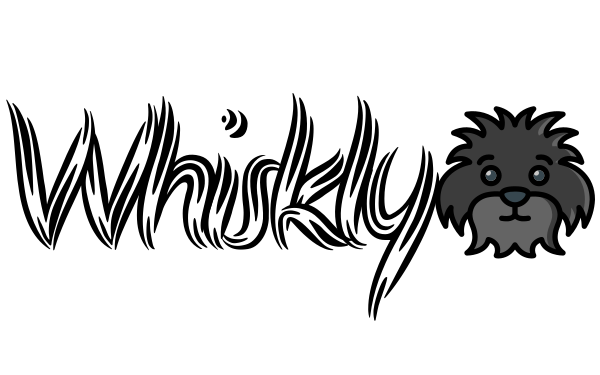
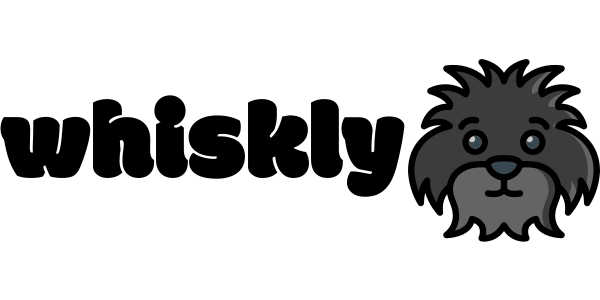
update landing graphic

Changed region(s): [[0.0, 0.18, 1.0, 0.87]]

diff --git a/src/components/Image/styles.js b/src/components/Image/styles.js
@@ -1,6 +1,7 @@
 import styled from 'styled-components';
 
 export const ImageContainer = styled.div`
+  outline: 1px solid purple;
   background-image: url(${({ image }) => image});
   background-position: center;
   background-size: contain;
@@ -14,6 +15,7 @@ export const ImageContainer = styled.div`
 `;
 
 export const Wrapper = styled.div`
+  outline: 1px solid green;
   display: inline-block;
   position: relative;
   width: ${({ width }) => width};

diff --git a/src/components/LandingView/index.js b/src/components/LandingView/index.js
@@ -24,7 +24,7 @@ const LandingView = () => {
           image={LandingGraphic}
           breakpointStyles={breakpointStyles}
           margin="1rem"
-          ratio="62.5%"
+          ratio="50%"
           width="60rem"
         />
         <SearchForm handleModalOpen={handleModalOpen} />
